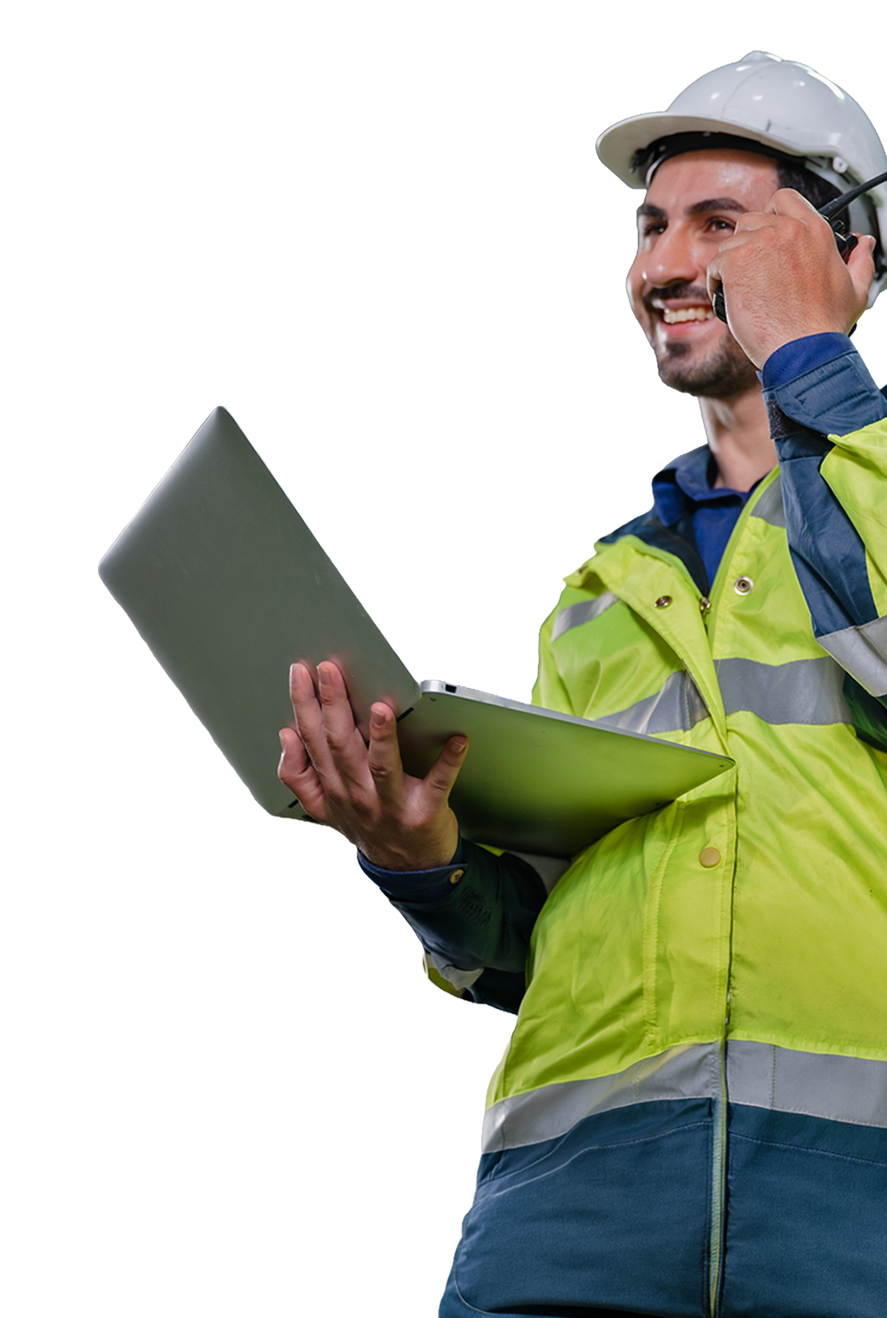
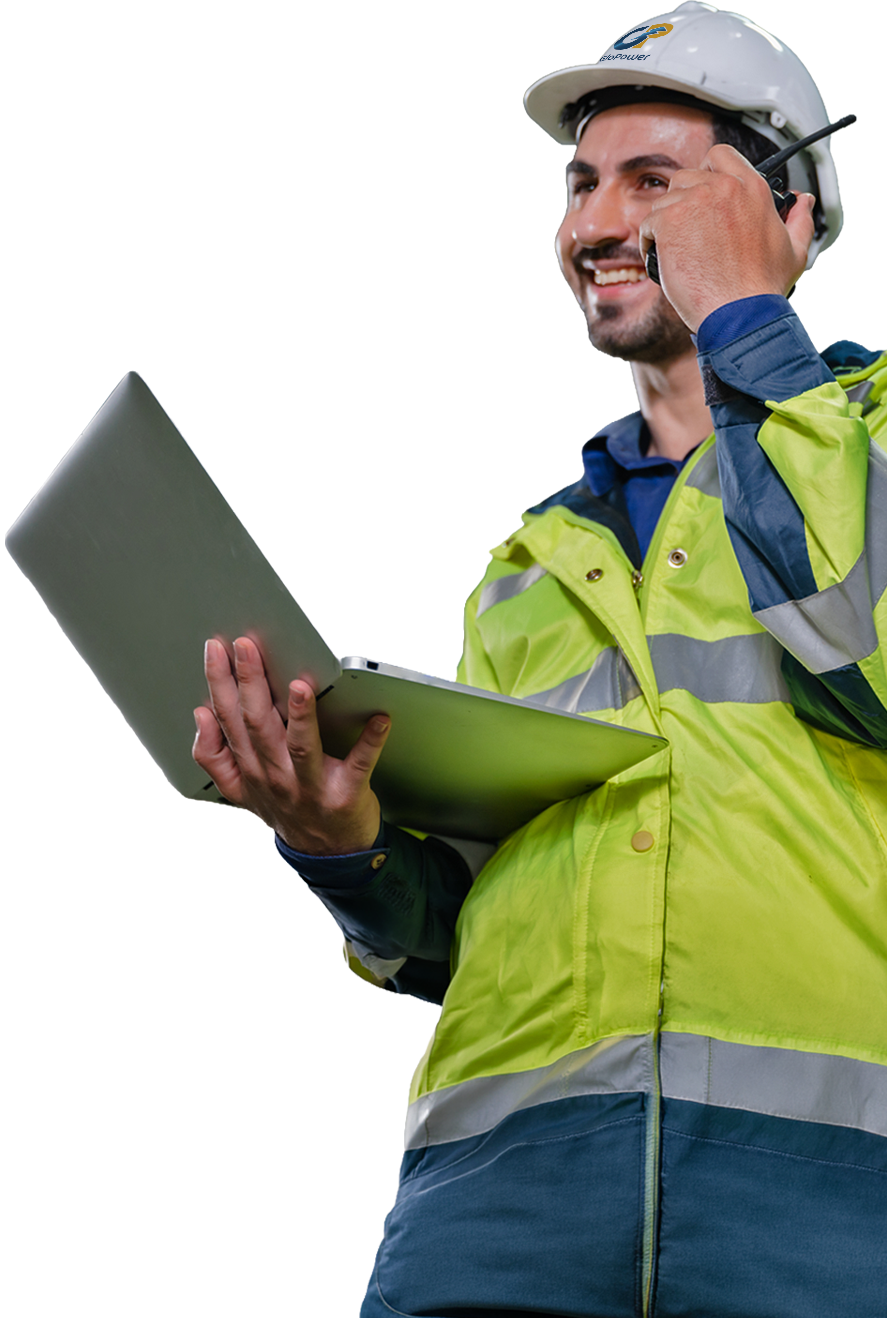
css update image update

diff --git a/css/style.css b/css/style.css
@@ -1902,9 +1902,6 @@ RIGHT ENGINEER IMAGE
 	grid-template-columns:1fr 1fr;
 	margin-bottom:100px;
 	/* width:100%; */
-	position:sticky;
-	top:80px; /* replace 80px with your fixed header's actual height */
-    z-index:100;
 }
 .diesel-tab-wrappr{grid-template-columns:repeat(5, 1fr);}
 .engine-tab-wrapper .lefttab{
@@ -2038,7 +2035,7 @@ RIGHT ENGINEER IMAGE
 .exprtsctn{background:#bddcff;}
 /* Left Content */
 .capabilities-content {
-	padding:30px 70px 40px 0;
+	padding:30px 70px 76px 0;
 	display: flex;
 	gap:19px;
     flex-direction: column;
@@ -2133,7 +2130,7 @@ RIGHT ENGINEER IMAGE
     position: relative;
     background-image: url(../images/product/diesel-genset/diesel-engine.png); /* your image path */
     /* background-position-x:0; */
-	background-position: -100px 0%;
+	background-position: -150px 5%;
     background-repeat: no-repeat;
     /* background-size:fill; */
     min-height:auto;
@@ -2339,7 +2336,7 @@ RIGHT ENGINEER IMAGE
 .mngmntsctnwrpr svg{height:90px; fill:#ffc100;}
 .mngmntsctnwrpr p span{color:#0048cf; font-size:15px; font-weight:700;}
 .pwrsctn h1{color:#0048cf;}
-.epcsctn{ position: relative; overflow: hidden;}
+.epcsctn{ position: relative; overflow: hidden; margin-top:-1px;}
 .epcsctn h1{text-align:left; color:#0048cf;}
 .epc-slick{margin-top:60px;}
 .epc-slick .epc-card {

diff --git a/product-diesel-generating-set.html b/product-diesel-generating-set.html
@@ -1095,7 +1095,7 @@
 						</div>
 						
 						<div class="engine-tab-content" id="tab-volvo">
-							<h1 class="blutxt">Why choose Volvo Peneta</h1>
+							<h1 class="blutxt">Why choose Volvo Penta</h1>
 							
 							<div class="ftrwrppr">
 							
